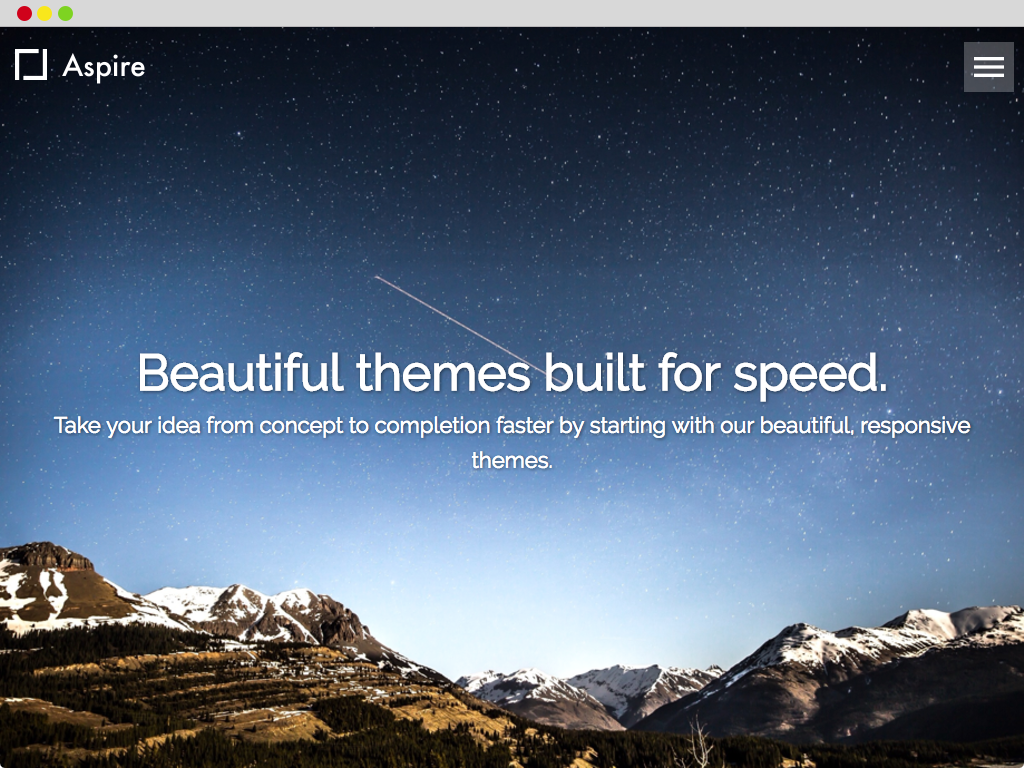
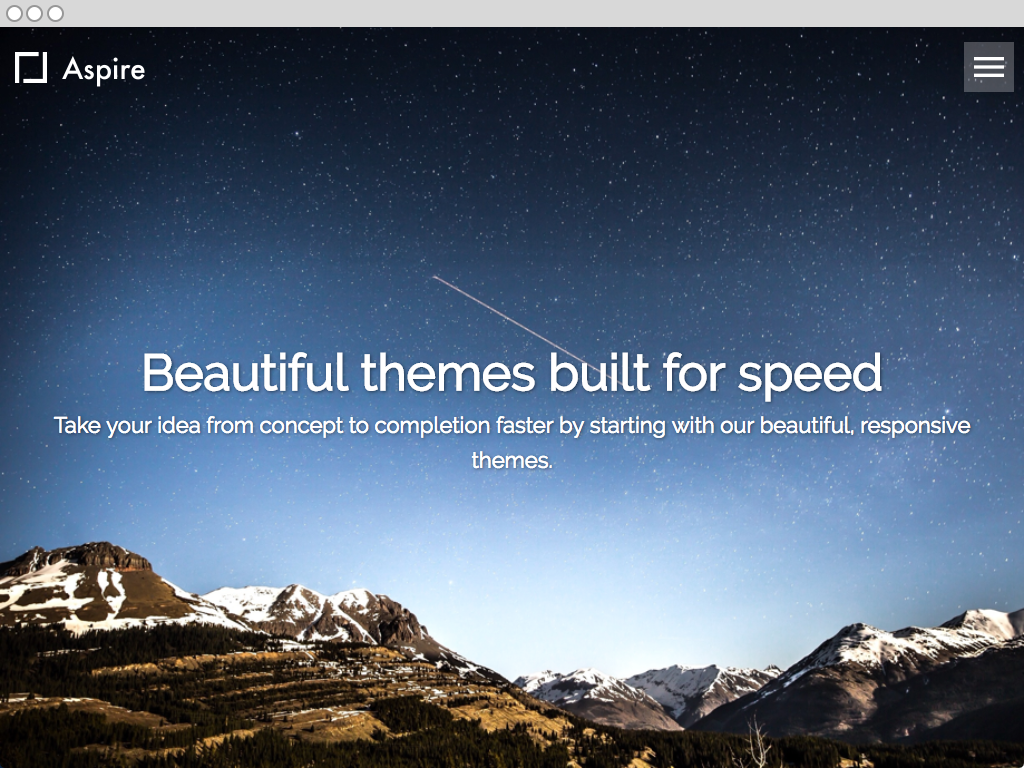
update screenshots

diff --git a/public/themes/sidebar/index.html b/public/themes/sidebar/index.html
@@ -73,8 +73,8 @@
 
         <main class="container" role="main">
 
-          <div class="row jumbotron">
-            <img src="resources/books.png">
+          <div class="row jumbotron" data-background-image="resources/books.png" style="background-image: url(resources/books.png); background-size: cover; background-position: center center; background-repeat: no-repeat;" data-background-size="cover" data-background-position="center center" data-background-repeat="no-repeat">
+
             <div class="col col-md-12">
               <h1>Beautiful themes built for speed</h1>
               <p>Take your idea from concept to completion faster by starting with our beautiful, responsive themes.</p>
